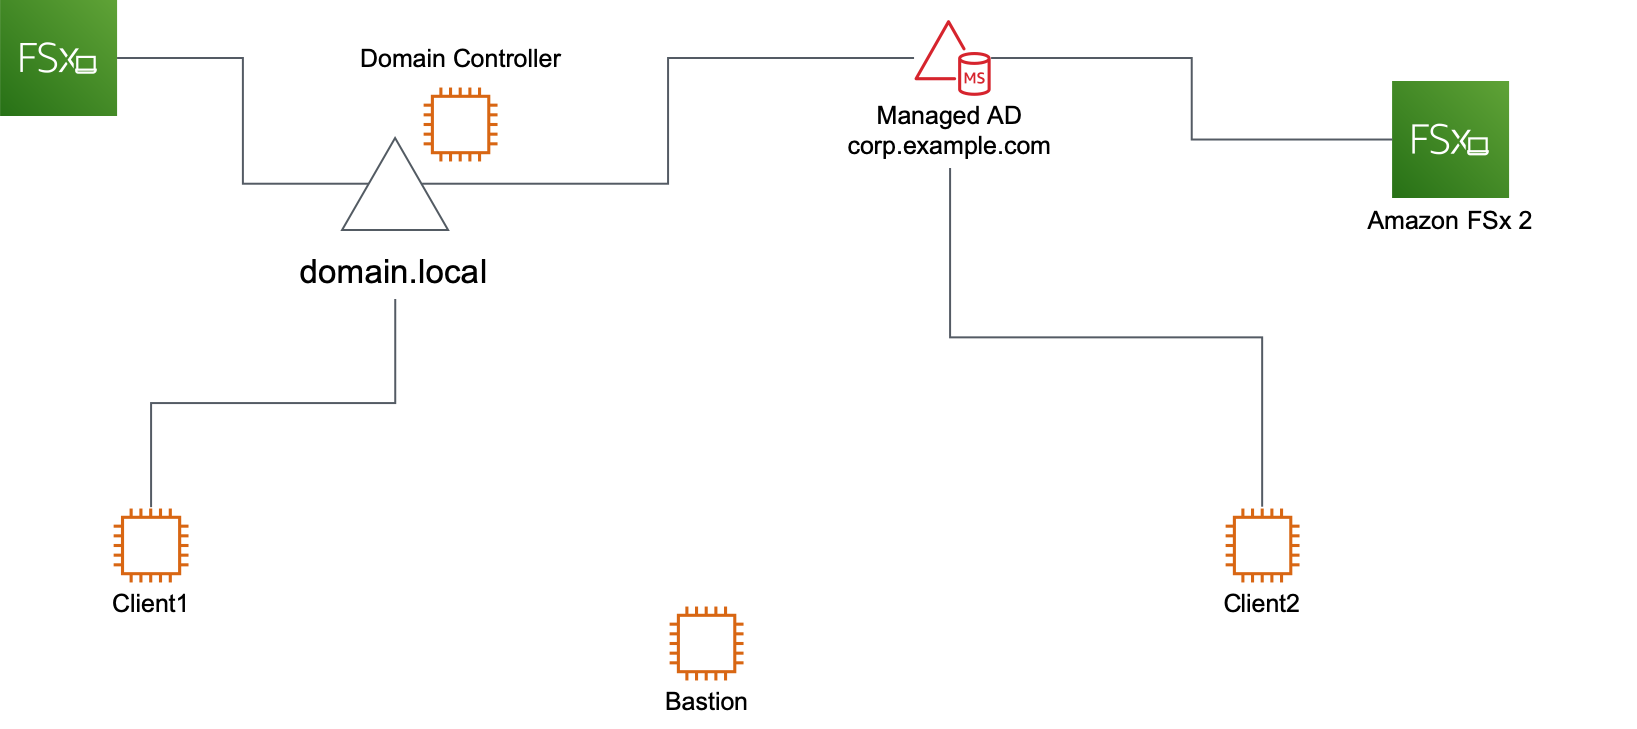
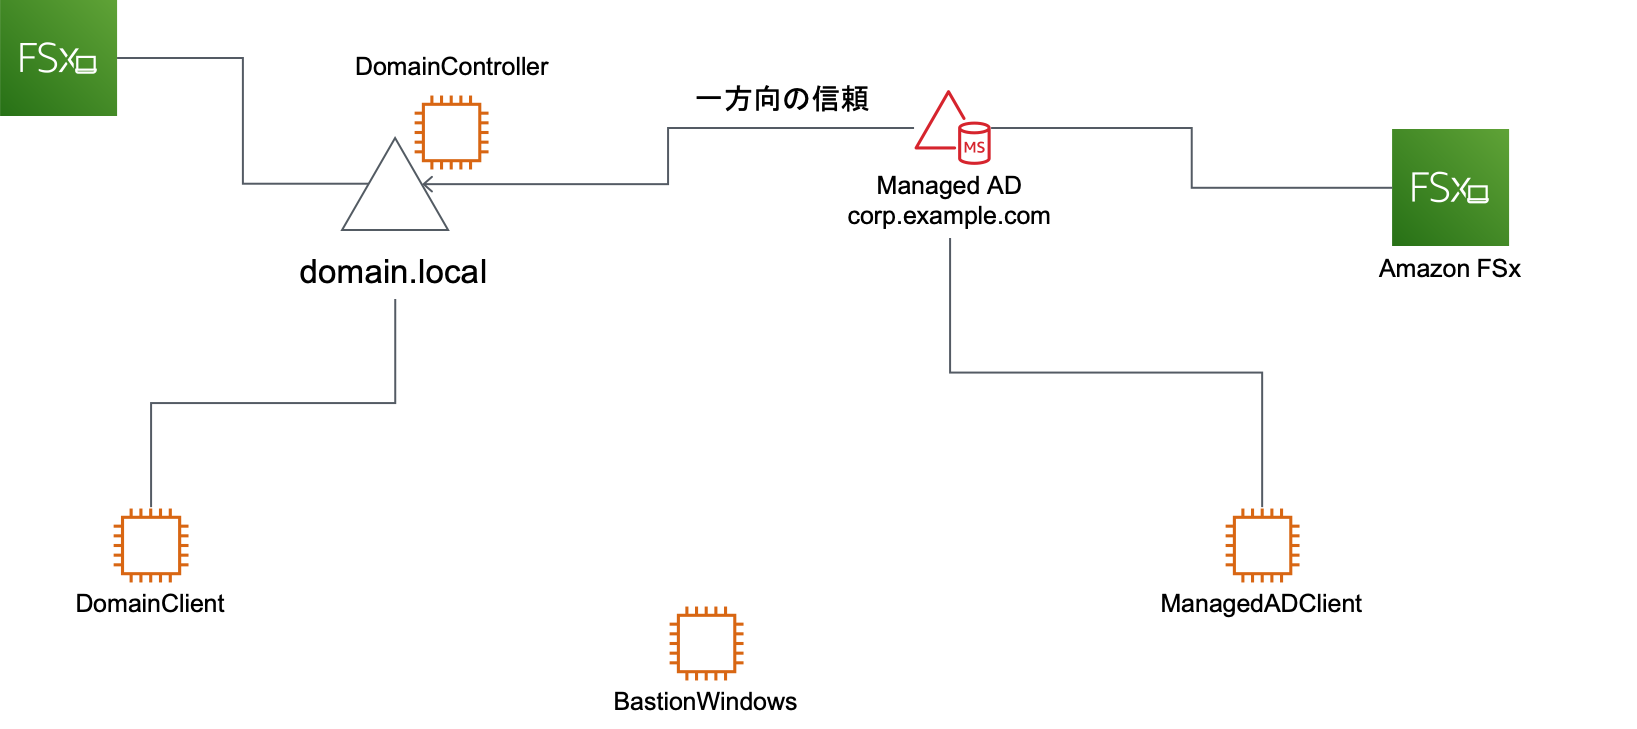
update

diff --git a/README.md b/README.md
@@ -1,6 +1,9 @@
 # FSx-PoC-Environment
 
+インフラ構成
 ![](architecture1.png)
+
+Active Directory構成
 ![](architecture2.png)
 
 ## 関連ドキュメント
